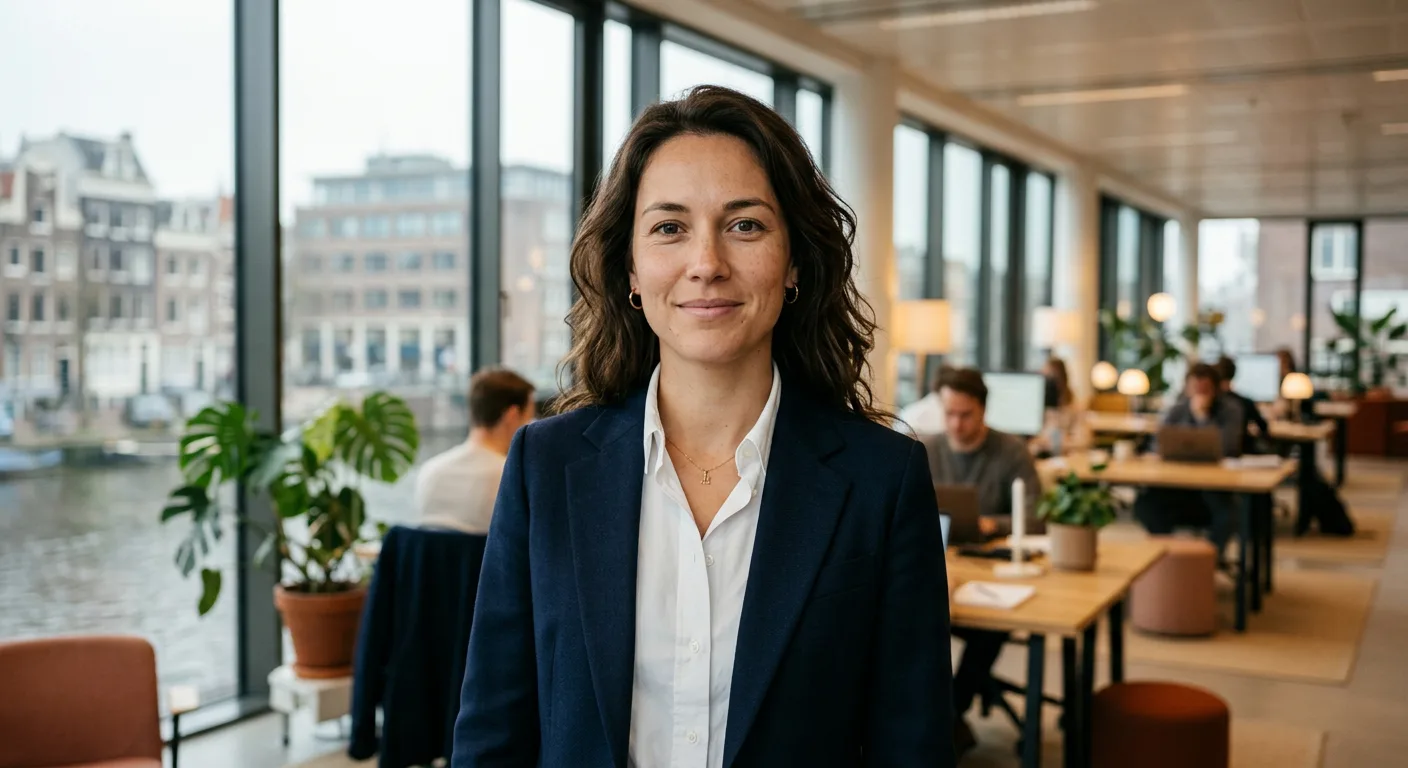
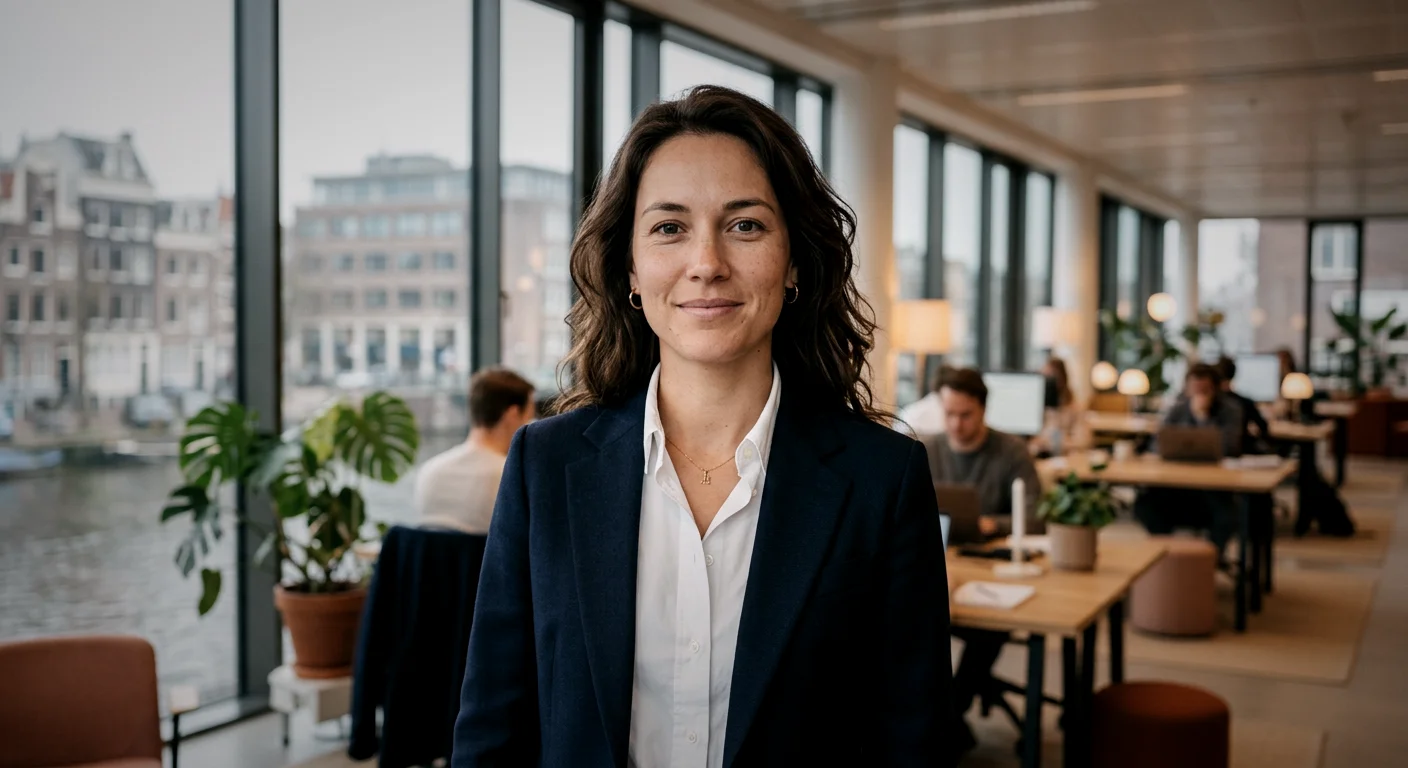
feat: uniform TAC color grade + new team photo (Nano Banana 2)

diff --git a/scripts/grade-photos.js b/scripts/grade-photos.js
@@ -1,0 +1,103 @@
+/**
+ * TAC Photo Color Grading
+ * Uniforme kleurbehandeling voor alle website foto's.
+ * 
+ * Stijl: warm schaduwen (bruin-rood), gedesatureerde midtones,
+ * subtiele teal/groen tint in highlights, verhoogd contrast,
+ * lichte vignette. Aansluitend bij brand: licorice #111 + teal #10242F + sage #B4CA80
+ */
+
+const sharp = require('sharp');
+const path = require('path');
+const fs = require('fs');
+
+const PUBLIC = path.join(__dirname, '..', 'public');
+
+const files = [
+  { in: 'hero.png',     out: 'hero.webp' },
+  { in: 'service1.png', out: 'service1.webp' },
+  { in: 'service2.png', out: 'service2.webp' },
+  { in: 'team_new.png', out: 'team.webp' },
+];
+
+// Kleurgrading via channel manipulation
+// Sharp ondersteunt linear + modulate + custom kernels
+// We bouwen dit via recomb matrix (3x3 color matrix) + modulate
+
+async function grade(inputPath, outputPath) {
+  const img = sharp(inputPath);
+  const meta = await img.metadata();
+  
+  await sharp(inputPath)
+    // Stap 1: Licht contrast boost
+    .linear(1.08, -8) // contrast verhogen, schaduwen iets donkerder
+
+    // Stap 2: Kleurmatrix voor de grading
+    // Warm schaduwen (rode/oranje boost in lows), teal in highlights
+    // Recomb matrix: herschrijft RGB kanalen
+    .recomb([
+      // R-channel: licht verhoogd (warm)
+      [1.05, 0.00, -0.02],
+      // G-channel: heel licht verhoogd (sage groen)
+      [0.00, 0.98,  0.02],
+      // B-channel: licht verhoogd in midtones (teal hint)
+      [-0.02, 0.03, 1.00],
+    ])
+
+    // Stap 3: Saturatie verlagen (editorial, niet overdreven levendig)
+    .modulate({
+      saturation: 0.82,   // 18% minder saturatie
+      brightness: 1.02,   // heel lichte brightening
+      hue: 0,
+    })
+
+    // Stap 4: Vignette via composite (donkere rand)
+    .composite([{
+      input: await sharp({
+        create: {
+          width: meta.width,
+          height: meta.height,
+          channels: 4,
+          background: { r: 0, g: 0, b: 0, alpha: 0 }
+        }
+      })
+      .composite([{
+        input: Buffer.from(
+          `<svg width="${meta.width}" height="${meta.height}">
+            <defs>
+              <radialGradient id="v" cx="50%" cy="50%" r="70%">
+                <stop offset="0%" stop-color="black" stop-opacity="0"/>
+                <stop offset="100%" stop-color="black" stop-opacity="0.35"/>
+              </radialGradient>
+            </defs>
+            <rect width="${meta.width}" height="${meta.height}" fill="url(#v)"/>
+          </svg>`
+        ),
+        blend: 'over'
+      }])
+      .png()
+      .toBuffer(),
+      blend: 'multiply'
+    }])
+
+    // Output: WebP, hoge kwaliteit
+    .webp({ quality: 85, effort: 4 })
+    .toFile(outputPath);
+
+  const origKB = Math.round(fs.statSync(inputPath).size / 1024);
+  const outKB = Math.round(fs.statSync(outputPath).size / 1024);
+  console.log(`✓ ${path.basename(outputPath)}: ${origKB}KB → ${outKB}KB`);
+}
+
+async function run() {
+  console.log('Applying TAC color grade to all photos...\n');
+  for (const f of files) {
+    await grade(
+      path.join(PUBLIC, f.in),
+      path.join(PUBLIC, f.out)
+    );
+  }
+  console.log('\nDone! All photos graded with uniform TAC look.');
+}
+
+run().catch(console.error);
